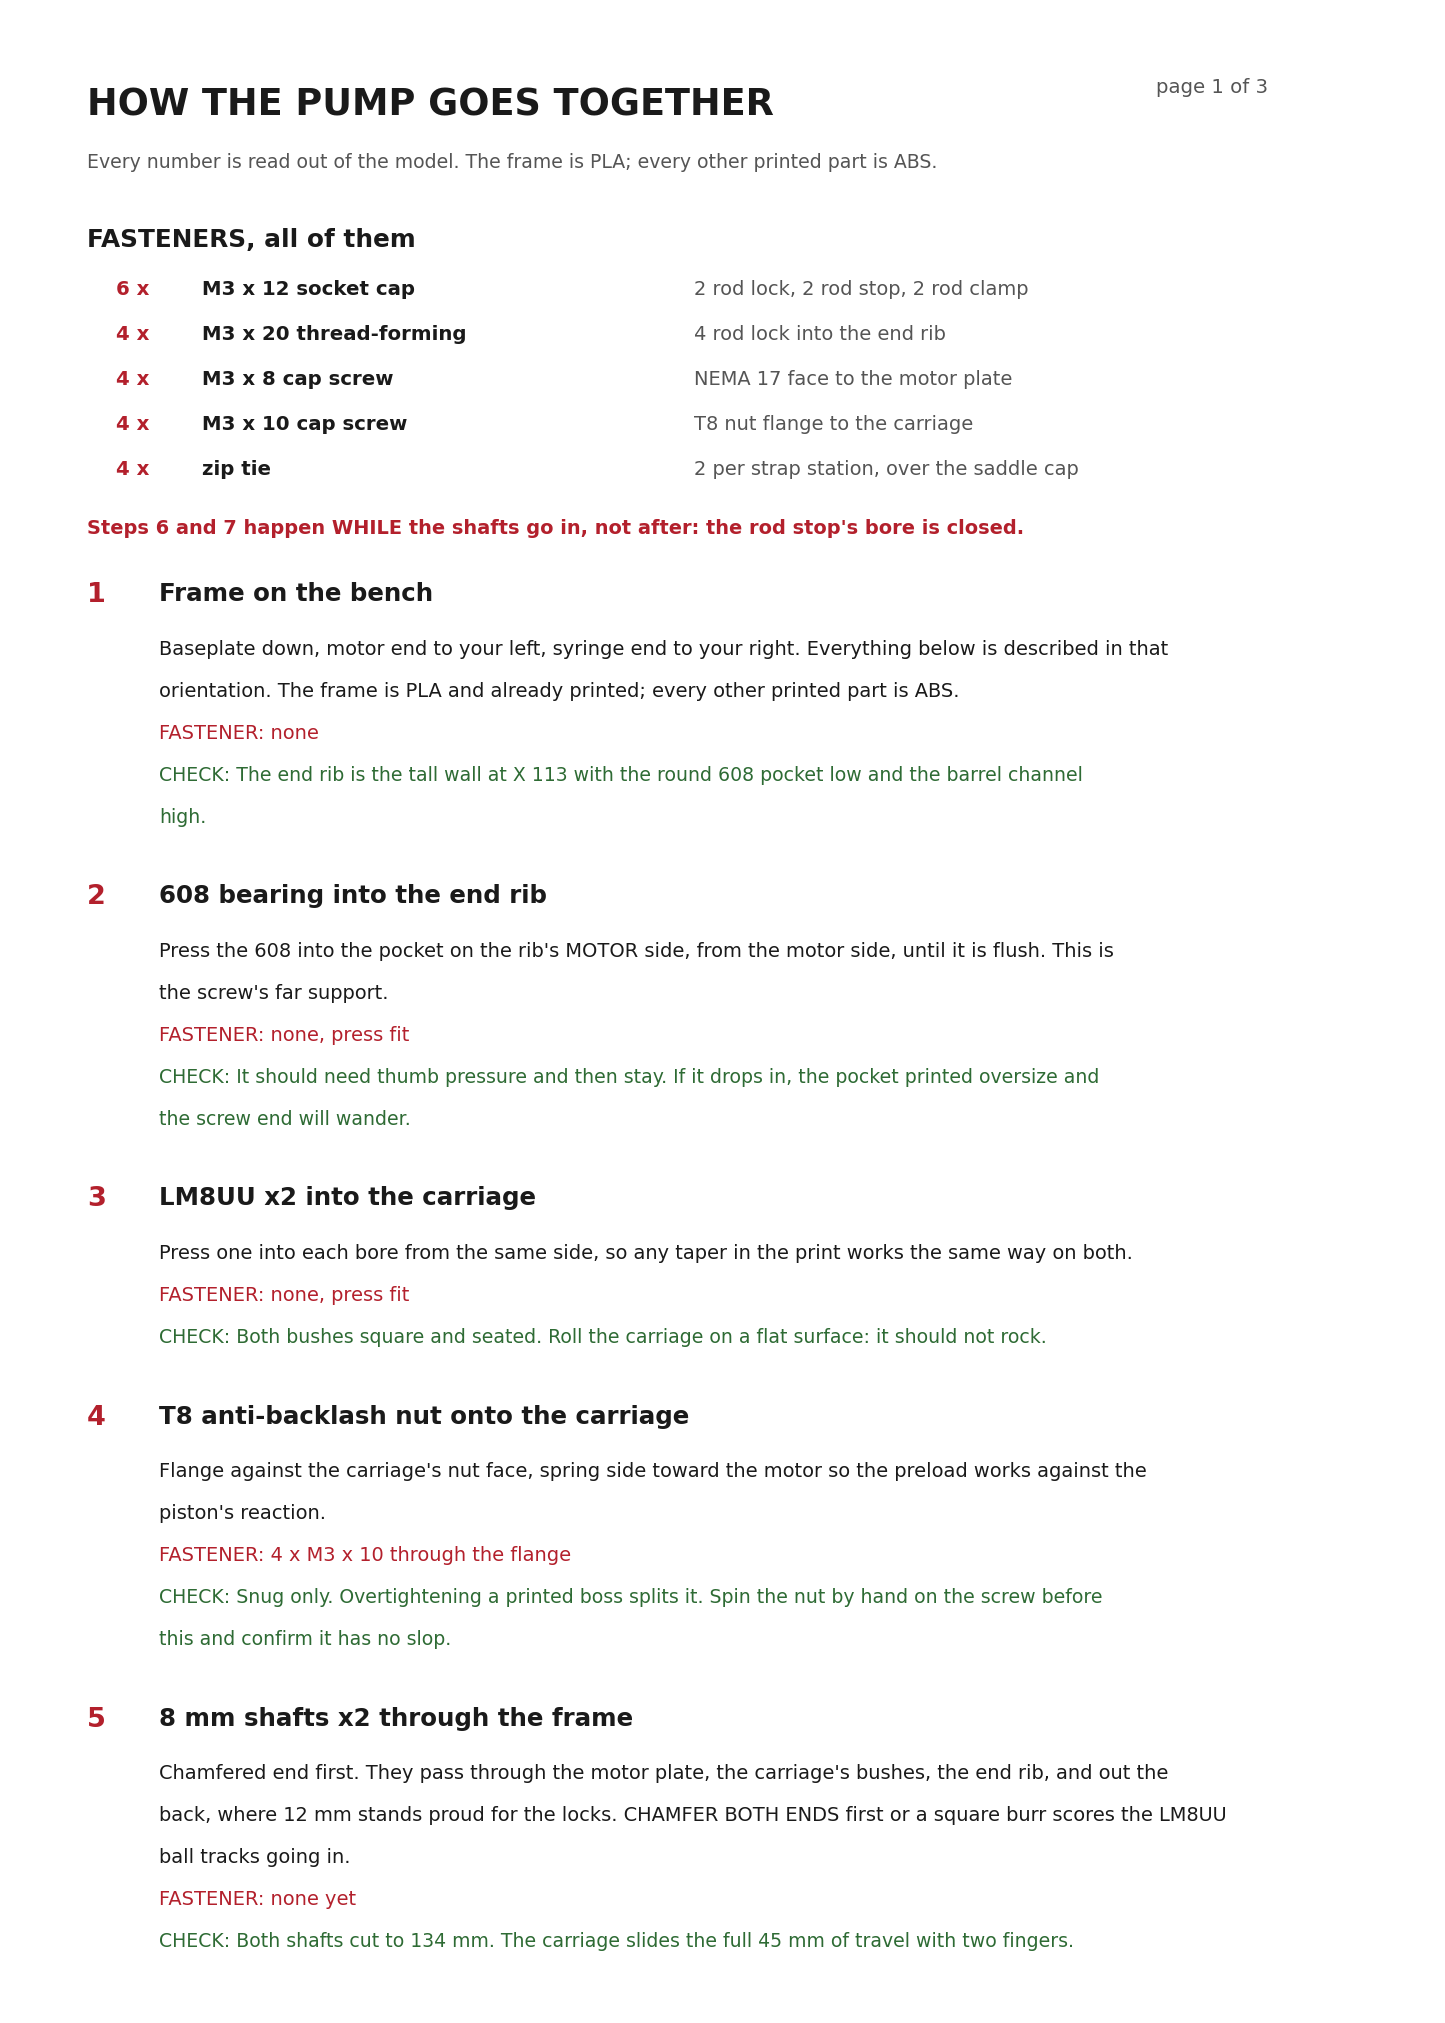
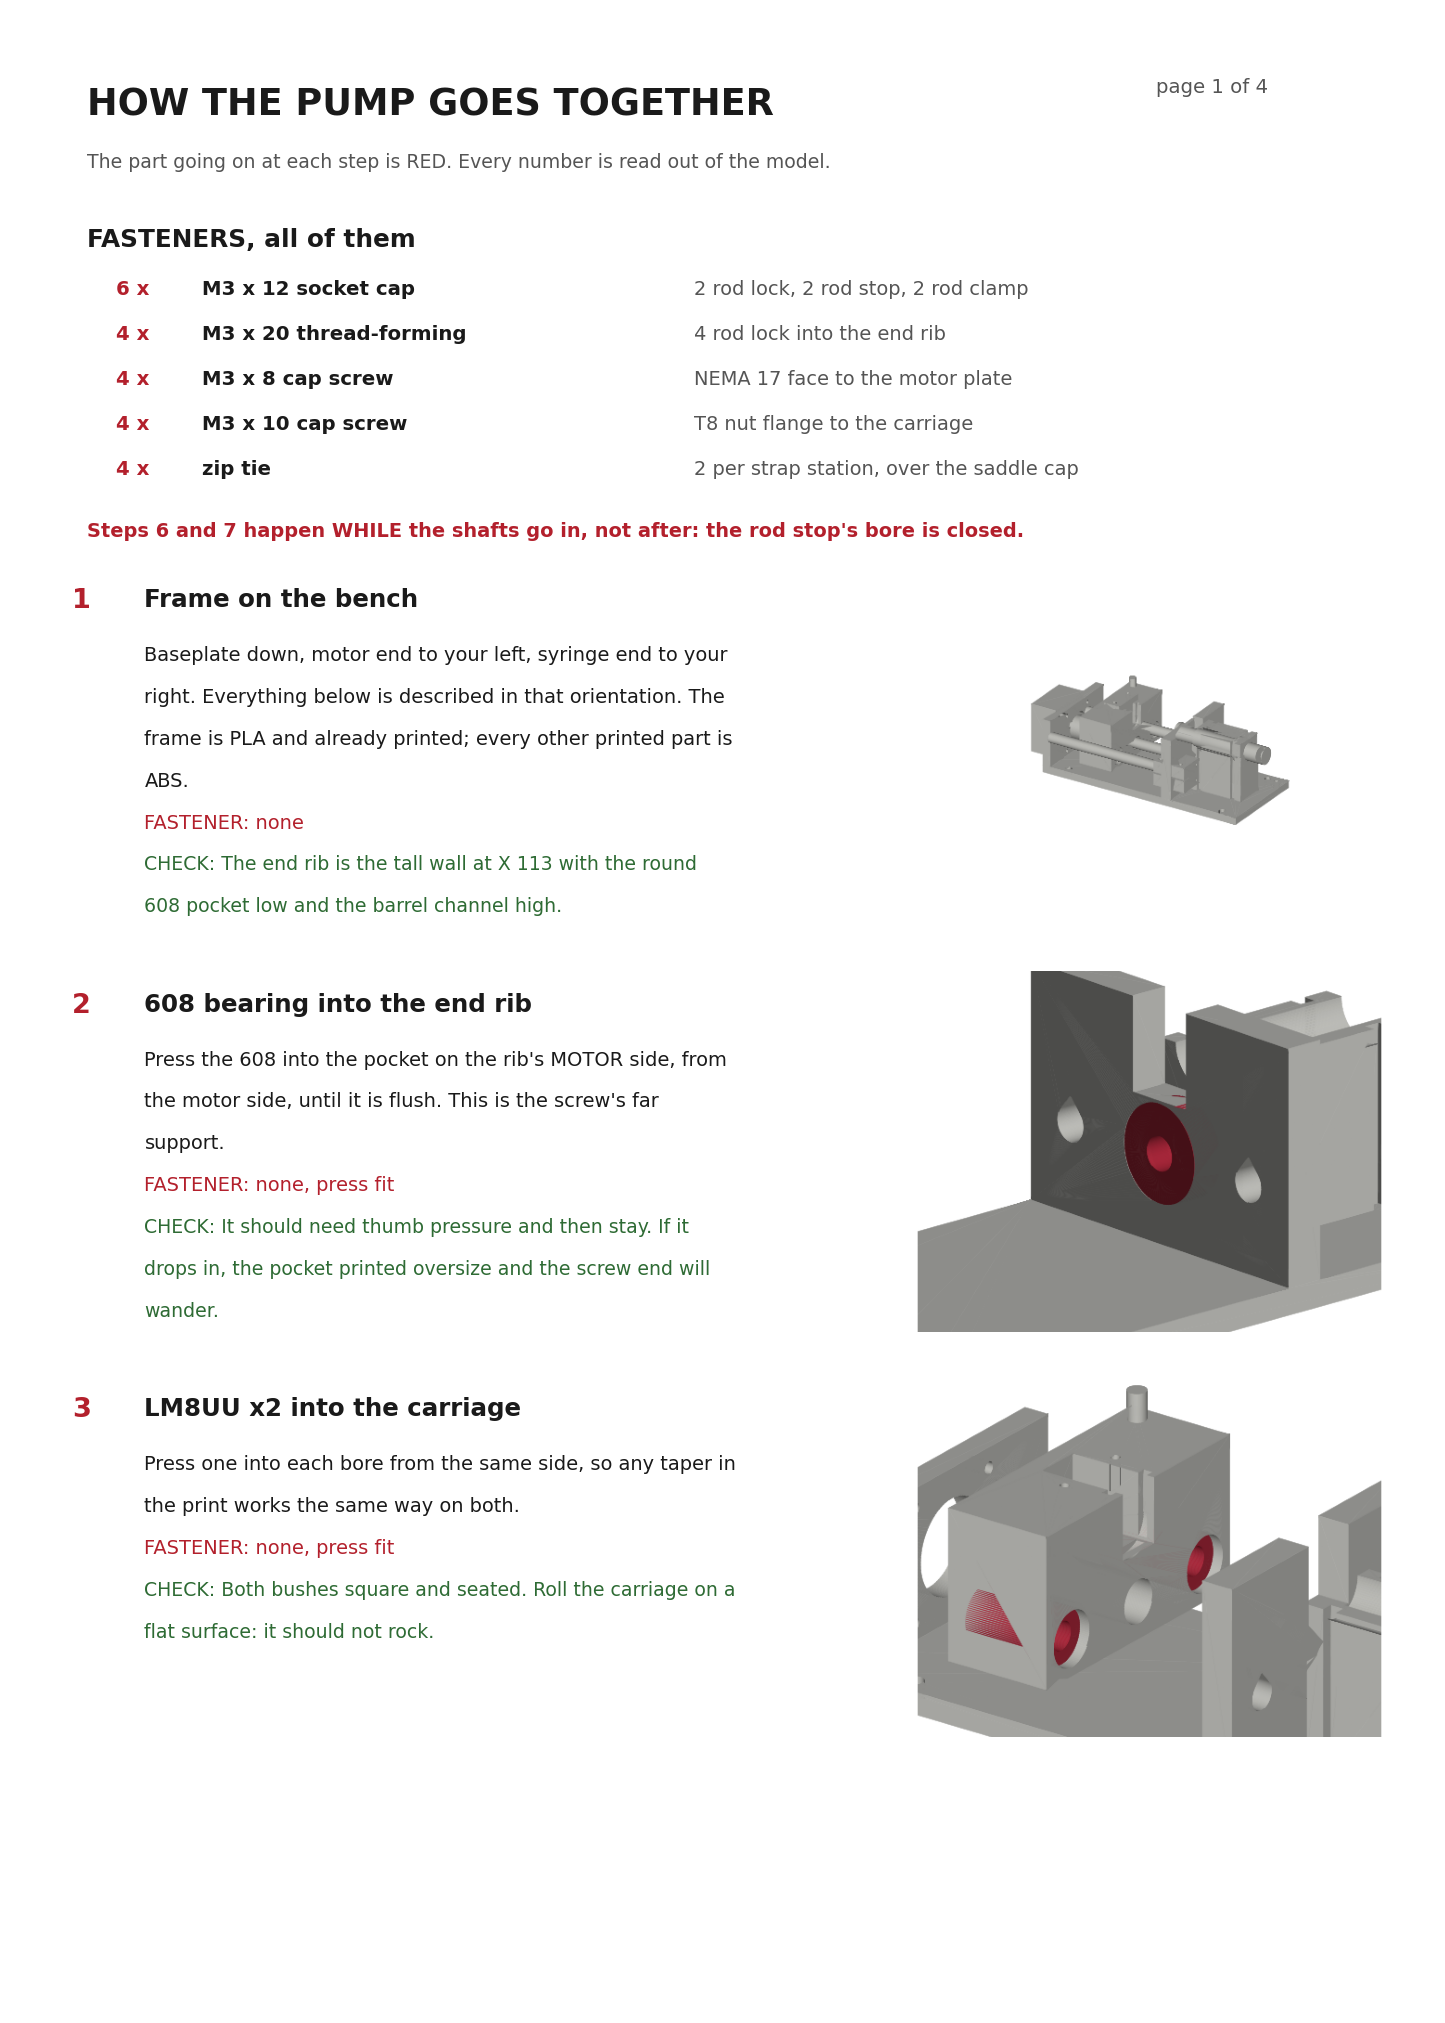
A picture per step, rendered from the model, with the new part in red
Kevin: "should we add some easy to follow pictures to the instructions".
Thirteen of them, one per step, built from the same meshes the 3-D page
uses so a picture cannot show something the model does not have.

The thing that makes them readable: every visible triangle from every part
goes into ONE Poly3DCollection, depth sorted together. Drawing each part as
its own collection is what made earlier 3-D renders here unusable, because
matplotlib sorts whole collections against each other and not the triangles
inside them, so the frame's saddle painted over parts standing in front of
it. Concatenating first removes the problem instead of fighting it with
z-bias, which is what I had been doing.

Three things the first pass got wrong and the renders showed immediately:

  A mirrored pair spans the full width, so cropping to its bounds crops to
  nothing. Step 6 framed a 126 mm cube and the rod stop came out four pixels
  wide behind the rib. It now focuses one of the pair.

  The 608 and the rod stop both sit on the rib's MOTOR face, so a view from
  the syringe end shows the rib and nothing else. Both look from the motor
  end now.

  How far to build and which part is red are not the same question.
  Assembly order puts the LM8UU bushes before the carriage, so step 3 drew
  two bearings floating in a frame, then a red carriage under the words
  "LM8UU x2 into the carriage". BUILD and HERO are separate fields now.
[…]

diff --git a/flow/build_steps.py b/flow/build_steps.py
@@ -20,6 +20,8 @@ this changes, and check_drive compares the two.
 """
 import os
 
+import numpy as _np
+
 import syringe_drive as S
 
 HERE = os.path.dirname(os.path.abspath(__file__))
@@ -176,6 +178,150 @@ def steps():
     ]
 
 
+# --------------------------------------------------------------- pictures
+# One rendered view per step, built from the same meshes the 3-D page uses,
+# so a picture cannot show something the model does not have.
+#
+# The trick that makes these readable: EVERY visible triangle from every part
+# goes into ONE Poly3DCollection, depth sorted together. Drawing each part as
+# its own collection is what made earlier 3-D renders here unusable, because
+# matplotlib sorts whole collections against each other and not the triangles
+# inside them, so the frame's saddle would paint over parts standing in front
+# of it. Concatenating first removes the problem entirely rather than fighting
+# it with z-bias.
+#
+# Already-built parts go grey and the step's own part goes red, which is the
+# whole job of the picture: not "what does the rig look like" but "which thing
+# am I holding and where does it go".
+LIGHT = _np.array([0.45, -0.75, 0.55])
+LIGHT = LIGHT / _np.linalg.norm(LIGHT)
+GREY = (0.78, 0.78, 0.76)
+NEW = (0.70, 0.16, 0.24)
+
+
+def _eye(elev, azim):
+    e, a = _np.radians(elev), _np.radians(azim)
+    return _np.array([_np.cos(e) * _np.cos(a),
+                      _np.cos(e) * _np.sin(a), _np.sin(e)])
+
+
+def _collect(meshes, view):
+    """Every forward facing triangle from every mesh, shaded and depth sorted
+    as one pile. Returns (triangles, rgb) ready for a single collection."""
+    tris, cols = [], []
+    for mesh, base in meshes:
+        keep = mesh.face_normals @ view > 0.0
+        if not keep.any():
+            continue
+        tri, nrm = mesh.triangles[keep], mesh.face_normals[keep]
+        lam = 0.38 + 0.62 * _np.clip(nrm @ LIGHT, 0.0, 1.0)
+        tris.append(tri)
+        cols.append(_np.clip(_np.array(base)[None, :] * lam[:, None], 0, 1))
+    if not tris:
+        return None, None
+    tri = _np.concatenate(tris)
+    rgb = _np.concatenate(cols)
+    order = _np.argsort(tri.mean(axis=1) @ view)
+    return tri[order], rgb[order]
+
+
+# How to frame each step. BUILD says how much of the rig to draw, HERO says
+# which part goes red. They are NOT the same: step 3 fits the LM8UU bushes
+# into the carriage, but assembly order puts the bushes before the carriage,
+# so building only as far as the bushes draws two bearings floating in a
+# frame. Build to the carriage, redden the bushes, and the picture says what
+# the step says. The first version tied the two together and step 3 showed a
+# red carriage under the words "LM8UU x2 into the carriage".
+#
+#   step: (build_to, hero, elev, azim, pad)   pad None = frame the whole rig
+VIEWS = {
+    1: (None, None, 26, -58, None),
+    2: ("608 bearing", "608 bearing", 18, -132, 18),
+    3: ("carriage", "LM8UU x2", 24, -54, 22),
+    4: ("carriage", "T8 anti-backlash nut", 22, -44, 20),
+    5: ("8 mm shafts x2", "8 mm shafts x2", 26, -58, None),
+    6: ("rod stop x2", "rod stop x2", 20, -128, 20),
+    7: ("rod lock x2", "rod lock x2", 20, -34, 20),
+    8: ("5-8 mm coupler", "Tr8x8 lead screw", 26, -58, None),
+    9: ("NEMA 17 pancake", "NEMA 17 pancake", 22, -64, 26),
+    10: ("split collars x2", "split collars x2", 16, -34, 22),
+    11: ("syringe barrel", "syringe barrel", 22, -48, None),
+    12: ("saddle cap + ties", "saddle cap + ties", 16, -32, 22),
+    13: ("rod clamp", "rod clamp", 22, -40, 18),
+}
+
+
+def figures(outdir=None):
+    """Render one PNG per step. Returns {step number: path}."""
+    import matplotlib
+    matplotlib.use("Agg")
+    import matplotlib.pyplot as plt
+    from mpl_toolkits.mplot3d.art3d import Poly3DCollection
+    import assembly as A
+
+    outdir = outdir or os.path.join(HERE, "steps")
+    if not os.path.isdir(outdir):
+        os.makedirs(outdir)
+    built = A.parts()
+    order = [n for n, _m, _c, _e, _t in built]
+    out = {}
+
+    for i, (name, _do, _f, _t) in enumerate(steps(), 1):
+        build_to, hero_name, elev, azim, pad = VIEWS[i]
+        upto = order.index(build_to) if build_to else len(built) - 1
+        hero_i = order.index(hero_name) if hero_name else -1
+        view = _eye(elev, azim)
+
+        meshes, hero = [], None
+        for k, (n, m, _c, _e, _tx) in enumerate(built):
+            if k > upto:
+                continue
+            if k == hero_i:
+                meshes.append((m, NEW))
+                hero = m
+            else:
+                meshes.append((m, GREY))
+        tri, rgb = _collect(meshes, view)
+        if tri is None:
+            continue
+
+        fig = plt.figure(figsize=(3.4, 2.6), facecolor="white")
+        ax = fig.add_axes([-0.14, -0.14, 1.28, 1.28], projection="3d")
+        ax.set_proj_type("ortho")
+        ax.add_collection3d(Poly3DCollection(
+            tri, facecolors=rgb, edgecolors=rgb, linewidths=0.25,
+            shade=False))
+
+        if pad and hero is not None:
+            # A mirrored pair spans the whole width, so cropping to its
+            # bounds crops to nothing: step 6 framed a 126 mm cube and the
+            # rod stop came out four pixels wide behind the rib. Focus on
+            # ONE of the pair when the mesh is symmetric about y = 0.
+            v = hero.vertices
+            if (v[:, 1].min() < -1.0 < 1.0 < v[:, 1].max()
+                    and abs(v[:, 1].min() + v[:, 1].max()) < 1.0):
+                v = v[v[:, 1] >= -1.0]
+            lo, hi = v.min(axis=0) - pad, v.max(axis=0) + pad
+        else:
+            allv = _np.concatenate([m.vertices for m, _c in meshes])
+            lo, hi = allv.min(axis=0) - 6, allv.max(axis=0) + 6
+        mid = (lo + hi) / 2.0
+        r = float((hi - lo).max()) / 2.0
+        ax.set_xlim(mid[0] - r, mid[0] + r)
+        ax.set_ylim(mid[1] - r, mid[1] + r)
+        ax.set_zlim(mid[2] - r, mid[2] + r)
+        ax.set_box_aspect((1, 1, 1))
+        ax.view_init(elev=elev, azim=azim)
+        ax.set_axis_off()
+
+        f = os.path.join(outdir, "step%02d.png" % i)
+        fig.savefig(f, dpi=150, facecolor="white")
+        plt.close(fig)
+        out[i] = f
+        print("  step %2d  %s" % (i, os.path.basename(f)))
+    return out
+
+
 def report():
     def A(t=""):
         print(t)
@@ -208,97 +354,116 @@ def report():
 
 
 def sheet():
-    """The same procedure as printable pages, for the bench.
+    """The procedure as printable pages: text on the left, a picture of that
+    step on the right, with the part going on shown in red.
 
-    It paginates. The first version ran one figure and stopped at step 7
-    because the page ran out, which is a sheet that looks finished and is
-    not: the last six steps include the two the students are most likely to
-    get wrong. A procedure that silently truncates is worse than no sheet.
+    It paginates on measured content. The first version ran one figure and
+    stopped at step 7 because the page filled, which looks finished and is
+    not: the six it cut include the saddle cap and the rod clamp, the two
+    most likely to be built wrong.
     """
     import matplotlib
     matplotlib.use("Agg")
     import matplotlib.pyplot as plt
+    import matplotlib.image as mpimg
 
     INK, MUT, RED, GRN = "#1a1a1a", "#555555", "#b3202c", "#2e6b34"
+    figs = figures()
     st = steps()
     W, H = 100.0, 140.0
-    pages, cur, y = [], [], H - 10.0
+    TXT_W = 62           # characters of text before the picture column
+    PIC_W, PIC_H = 33.0, 25.0
 
-    # lay the steps out first, so the page count comes from the content
+    # measure first, so the page count comes from the content
+    # Page 1 carries the fastener table and the warning line above the first
+    # step, so it has less room. Measuring every page as if it started at the
+    # top is what ran step 4's CHECK lines off the bottom of page 1.
+    HEAD1 = 3.6 + 3.1 * len(fasteners()) + 1.2 + 4.6
+    laid, cur, y = [], [], H - 10.0 - HEAD1
     for i, (name, do, fast, test) in enumerate(st, 1):
         body = ([("t", name)]
-                + [("d", l) for l in _wrap(do, 104)]
-                + [("f", l) for l in _wrap("FASTENER: " + fast, 100)]
-                + [("c", l) for l in _wrap("CHECK: " + test, 100)])
-        need = 4.0 + 2.9 * (len(body) - 1) + 2.4
+                + [("d", l) for l in _wrap(do, TXT_W)]
+                + [("f", l) for l in _wrap("FASTENER: " + fast, TXT_W - 2)]
+                + [("c", l) for l in _wrap("CHECK: " + test, TXT_W - 2)])
+        text_h = 4.0 + 2.9 * (len(body) - 1)
+        need = max(text_h, PIC_H) + 3.0
         if y - need < 8.0:
-            pages.append(cur)
+            laid.append(cur)
             cur, y = [], H - 10.0
-        cur.append((i, body))
+        cur.append((i, body, need))
         y -= need
-    pages.append(cur)
+    laid.append(cur)
 
     out = []
-    for pno, page in enumerate(pages, 1):
+    for pno, page in enumerate(laid, 1):
         fig = plt.figure(figsize=(8.5, 11.9), facecolor="white")
         ax = fig.add_axes([0, 0, 1, 1])
         ax.set_xlim(0, W)
         ax.set_ylim(0, H)
         ax.axis("off")
 
-        def txt(x, y, s, size=8.0, c=INK, w="normal"):
-            ax.text(x, y, s, fontsize=size, color=c, ha="left", va="top",
+        def txt(x, yy, t, size=8.0, c=INK, w="normal"):
+            ax.text(x, yy, t, fontsize=size, color=c, ha="left", va="top",
                     family="DejaVu Sans", fontweight=w)
 
         y = H - 6.0
         txt(6, y, "HOW THE PUMP GOES TOGETHER", 15.5, INK, "bold")
-        txt(94 - 14, y + 0.6, "page %d of %d" % (pno, len(pages)), 8.4, MUT)
+        txt(80, y + 0.6, "page %d of %d" % (pno, len(laid)), 8.4, MUT)
         y -= 4.6
-        txt(6, y, "Every number is read out of the model. The frame is PLA; "
-                  "every other printed part is ABS.", 8.0, MUT)
+        txt(6, y, "The part going on at each step is RED. Every number is "
+                  "read out of the model.", 8.0, MUT)
         y -= 5.2
 
         if pno == 1:
             txt(6, y, "FASTENERS, all of them", 10.5, INK, "bold")
             y -= 3.6
-            for name, qty, where in fasteners():
+            for nm, qty, where in fasteners():
                 txt(8, y, "%d x" % qty, 8.4, RED, "bold")
-                txt(14, y, name, 8.4, INK, "bold")
+                txt(14, y, nm, 8.4, INK, "bold")
                 txt(48, y, where, 8.2, MUT)
                 y -= 3.1
-            y -= 1.0
+            y -= 1.2
             txt(6, y, "Steps 6 and 7 happen WHILE the shafts go in, not "
                       "after: the rod stop's bore is closed.", 8.2, RED,
                 "bold")
-            y -= 4.4
+            y -= 4.6
 
-        for i, body in page:
-            txt(6, y, "%d" % i, 11.5, RED, "bold")
+        for i, body, need in page:
+            top = y
+            txt(5, y, "%d" % i, 11.5, RED, "bold")
             for kind, line in body:
                 if kind == "t":
-                    txt(11, y, line, 10.4, INK, "bold")
+                    txt(10, y, line, 10.4, INK, "bold")
                     y -= 4.0
                 elif kind == "d":
-                    txt(11, y, line, 8.2, INK)
+                    txt(10, y, line, 8.2, INK)
                     y -= 2.9
                 elif kind == "f":
-                    txt(11, y, line, 8.2, RED)
+                    txt(10, y, line, 8.2, RED)
                     y -= 2.9
                 else:
-                    txt(11, y, line, 8.0, GRN)
+                    txt(10, y, line, 8.0, GRN)
                     y -= 2.9
-            y -= 2.4
 
-        if pno == len(pages):
+            if i in figs:
+                bx, by = W - PIC_W - 4.0, top - PIC_H + 1.5
+                iax = fig.add_axes([bx / W, by / H, PIC_W / W, PIC_H / H])
+                iax.imshow(mpimg.imread(figs[i]))
+                iax.axis("off")
+
+            y = top - need
+
+        if pno == len(laid):
             y -= 1.0
             txt(6, y, "WHEN IT IS TOGETHER", 10.5, INK, "bold")
             y -= 3.6
             for line in (
                     "Turn the coupler by hand through the whole stroke "
-                    "before any power is applied. The carriage",
-                    "should move %.0f mm with no tight spot and no rising "
-                    "effort. Then run the motor dry, with no" % S.TRAVEL,
-                    "syringe fitted, and only then fill the loop."):
+                    "before any power is applied.",
+                    "The carriage should move %.0f mm with no tight spot "
+                    "and no rising effort. Then run" % S.TRAVEL,
+                    "the motor dry, with no syringe fitted, and only then "
+                    "fill the loop."):
                 txt(8, y, line, 8.2, INK)
                 y -= 2.9
 

diff --git a/flow/check_drive.py b/flow/check_drive.py
@@ -565,7 +565,7 @@ import atexit
 # crash never ran and the summary still said everything was fine. That is a
 # dead instrument reporting success, which is the one failure this whole file
 # exists to prevent, so it now counts itself.
-EXPECTED = 112
+EXPECTED = 114
 
 
 @atexit.register
@@ -1205,3 +1205,21 @@ check("the printed sheet carries every step",
       len(_BS.steps()) >= 13,
       "%d steps, and sheet() paginates rather than running off the page"
       % len(_BS.steps()))
+
+# ------------------------------------- every step has a picture of a real part
+# Same registry discipline as everywhere else: VIEWS names parts by string, so
+# a rename in assembly.py would silently drop a picture or crash the sheet.
+_names = set(n for n, _m, _c, _e, _t in _AS.parts())
+_bad = []
+for _i, (_b, _h, _e1, _a1, _p1) in _BS.VIEWS.items():
+    for _n in (_b, _h):
+        if _n is not None and _n not in _names:
+            _bad.append("step %d: %r" % (_i, _n))
+check("every view names a part the assembly actually draws",
+      not _bad,
+      "; ".join(_bad) if _bad else
+      "%d views, every build and hero name resolves" % len(_BS.VIEWS))
+check("every step has a picture",
+      set(_BS.VIEWS) == set(range(1, len(_BS.steps()) + 1)),
+      "%d steps, %d views, none without a figure"
+      % (len(_BS.steps()), len(_BS.VIEWS)))
